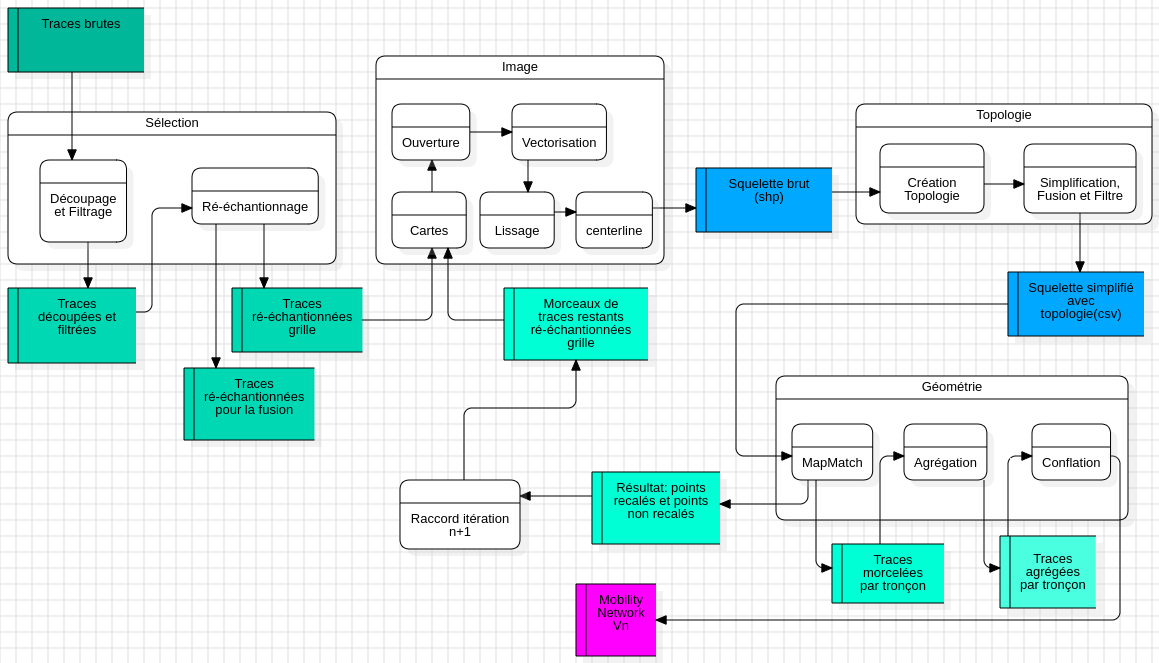
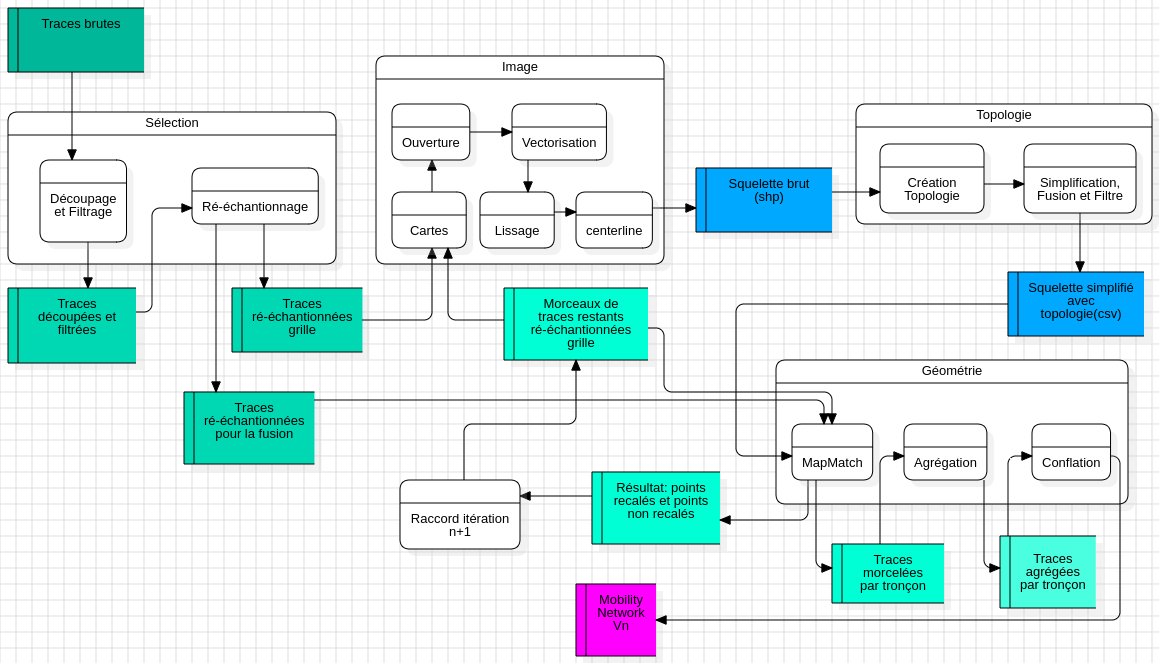
iteration 2

diff --git a/pipeline/source/Selection.py b/pipeline/source/Selection.py
@@ -195,8 +195,8 @@ def decoup_resample(RESPATH, tracespathsource, X, Y,
 
 
 
-def second_round(RESPATH, NB_OBS_MIN, G1_SIZE, G2_SIZE, SEUIL, SEUIL_SURFACE, DIST_MIN_ARC,
-                 RESAMPLE_SIZE_GRID):
+def second_round(RESPATH, NB_OBS_MIN = 10, DIST_MAX_2OBS = 50, RESAMPLE_SIZE_GRID = 1,
+                 rep='points_not_mm_1', pathtmm='tmm'):
 
     buffer_size = 5
     k = 0.6
@@ -210,7 +210,7 @@ def second_round(RESPATH, NB_OBS_MIN, G1_SIZE, G2_SIZE, SEUIL, SEUIL_SURFACE, DI
     #
 
     collection = tkl.TrackCollection()
-    mmtrackpath = RESPATH + '/mapmatch/tmm/'
+    mmtrackpath = RESPATH + '/mapmatch/' + pathtmm + '/'
     for mmfilename in os.listdir(mmtrackpath):
         #N;E;time;U;num;track_id;user_id;hmm_inference;mmtype;idedge
         fmt = tkl.TrackFormat({'ext': 'CSV',
@@ -224,7 +224,7 @@ def second_round(RESPATH, NB_OBS_MIN, G1_SIZE, G2_SIZE, SEUIL, SEUIL_SURFACE, DI
         collection.addTrack(trace)
     print ('Number of tracks map matched :', collection.size())
 
-    index =  tkl.SpatialIndex(collection)
+    # index =  tkl.SpatialIndex(collection)
 
     cpt = 1
     morceaux = tkl.TrackCollection()
@@ -244,6 +244,7 @@ def second_round(RESPATH, NB_OBS_MIN, G1_SIZE, G2_SIZE, SEUIL, SEUIL_SURFACE, DI
         morceau = tkl.Track()
         morceau.tid = cpt
         morceau.uid = cpt
+
         cpt += 1
         for j in range(track.size()):
             obs = track.getObs(j)
@@ -261,32 +262,66 @@ def second_round(RESPATH, NB_OBS_MIN, G1_SIZE, G2_SIZE, SEUIL, SEUIL_SURFACE, DI
             else:
                 if cptNot >= NB_OBS_MIN:
                     if OPT_PLUS_PTS:
-                        morceau = track.extract(j-NB_PTS, j) + morceau
-                        if j < track.size()-1:
-                            morceau = morceau + track.extract(j+1, min(j+NB_PTS, track.size()-1))
+                        # on ajoute 4 points avant
+                        o1 = track[j]
+                        for k in range(j-1, j-NB_PTS-1, -1):
+                            o2 = track[k]
+                            if o1.distance2DTo(o2) <= DIST_MAX_2OBS:
+                                morceau.insertObs(o2, k)
+                            o1 = o2
+                        # on ajoute 4 points après
+                        o1 = track[j]
+                        for k in range(j+1, min(j+NB_PTS+1, track.size())):
+                            o2 = track[k]
+                            if o1.distance2DTo(o2) <= DIST_MAX_2OBS:
+                                morceau.addObs(o2)
+                            o1 = o2
+
                     morceau.resample(RESAMPLE_SIZE_GRID, mode=tkl.MODE_SPATIAL)
+                    morceau.createAnalyticalFeature('num', num)
+                    morceau.createAnalyticalFeature('user_id', user_id)
+                    morceau.createAnalyticalFeature('track_id', track_id)
+                    morceau.createAnalyticalFeature('version', 'v1')
                     morceaux.addTrack(morceau)
 
                 morceau = tkl.Track()
                 morceau.tid = cpt
                 morceau.uid = cpt
+
                 cpt += 1
                 cptNot = 0
 
         if cptNot >= NB_OBS_MIN:
             if OPT_PLUS_PTS:
-                morceau = track.extract(j-NB_PTS, j) + morceau
-                if j < track.size()-1:
-                    morceau = morceau + track.extract(j+1, min(j+NB_PTS, track.size()-1))
+                # on ajoute 4 points avant
+                o1 = track[j]
+                for k in range(j-1, j-NB_PTS, -1):
+                    o2 = track[k]
+                    if o1.distance2DTo(o2) <= DIST_MAX_2OBS:
+                        morceau.insertObs(o2, k)
+                    o1 = o2
+                # on ajoute 4 points après
+                o1 = track[j]
+                for k in range(j+1, min(j+NB_PTS+1, track.size())):
+                    o2 = track[k]
+                    if o1.distance2DTo(o2) <= DIST_MAX_2OBS:
+                        morceau.addObs(o2)
+                    o1 = o2
             morceau.resample(RESAMPLE_SIZE_GRID, mode=tkl.MODE_SPATIAL)
+            morceau.createAnalyticalFeature('num', num)
+            morceau.createAnalyticalFeature('user_id', user_id)
+            morceau.createAnalyticalFeature('track_id', track_id)
+            morceau.createAnalyticalFeature('version', 'v1')
             morceaux.addTrack(morceau)
 
 
     # On enregistre
     # print (morceaux.size())
 
-    tracespath = RESPATH + "points_not_mm/"
+    af_names = ['num', 'track_id', 'user_id', 'version']
+
+    tracespath = RESPATH + rep + "/"
     tkl.TrackWriter.writeToFiles(morceaux, tracespath,
                                  id_E=1, id_N=0, id_U=3, id_T=2,
-                                 h=1, separator=";") # af_names=af_names
+                                 h=1, separator=";", af_names=af_names)
 

diff --git a/pipeline/MainZone1.py b/pipeline/MainZone1.py
@@ -8,7 +8,7 @@ from source.Image import density_polygonize
 from source.Topology import network
 from source.Geometry import createNetworkGeom
 
-STAGE = 5
+STAGE = 6
 
 
 """ ======================================================================= """
@@ -120,13 +120,29 @@ if not os.path.exists(RESPATH + 'resample_fusion'):
     os.makedirs(RESPATH + 'resample_fusion')
 if not os.path.exists(RESPATH + 'mapmatch/tmm'):
     os.makedirs(RESPATH + 'mapmatch/tmm')
+if not os.path.exists(RESPATH + 'mapmatch/tmm1'):
+    os.makedirs(RESPATH + 'mapmatch/tmm1')
+    if not os.path.exists(RESPATH + 'mapmatch/tmm2'):
+        os.makedirs(RESPATH + 'mapmatch/tmm2')
+
 if not os.path.exists(RESPATH + 'geometry/fusion'):
     os.makedirs(RESPATH + 'geometry/fusion')
+if not os.path.exists(RESPATH + 'geometry/fusion1'):
+    os.makedirs(RESPATH + 'geometry/fusion1')
+if not os.path.exists(RESPATH + 'geometry/fusion2'):
+    os.makedirs(RESPATH + 'geometry/fusion2')
+
 if not os.path.exists(RESPATH + 'geometry/raccord'):
     os.makedirs(RESPATH + 'geometry/raccord')
-if not os.path.exists(RESPATH + 'points_not_mm'):
-    os.makedirs(RESPATH + 'points_not_mm')
+if not os.path.exists(RESPATH + 'geometry/raccord1'):
+    os.makedirs(RESPATH + 'geometry/raccord1')
+if not os.path.exists(RESPATH + 'geometry/raccord2'):
+    os.makedirs(RESPATH + 'geometry/raccord2')
 
+if not os.path.exists(RESPATH + 'points_not_mm_1'):
+    os.makedirs(RESPATH + 'points_not_mm_1')
+if not os.path.exists(RESPATH + 'points_not_mm_2'):
+    os.makedirs(RESPATH + 'points_not_mm_2')
 
 
 
@@ -180,15 +196,21 @@ if STAGE == 4:
 if STAGE == 5:
     t0 = time.time()
 
-    SEUIL = 350
-    SEUIL_SURFACE = 750
+    rep='points_not_mm_1'
 
-    second_round(RESPATH, NB_OBS_MIN, G1_SIZE, G2_SIZE, SEUIL, SEUIL_SURFACE, DIST_MIN_ARC,
-                 RESAMPLE_SIZE_GRID)
+    SEUIL = 14
+    SEUIL_SURFACE = 500
+
+    second_round(RESPATH, NB_OBS_MIN, DIST_MAX_2OBS, RESAMPLE_SIZE_GRID, rep)
+
     density_polygonize(RESPATH, G1_SIZE, G2_SIZE, SEUIL, SEUIL_SURFACE,
-                       prefix='ST', rep='points_not_mm')
-    # network(RESPATH, DIST_MIN_ARC)
+                        prefix='ST', rep=rep)
 
+    network(RESPATH, DIST_MIN_ARC, prefix='ST')
+
+    createNetworkGeom(RESPATH, SEARCH, NB_OBS_MIN, DIST_MAX_2OBS, prefix='ST',
+                      pathtraces='points_not_mm_1', pathtmm='tmm1',
+                      pathfusion='fusion1', pathraccord='raccord1')
 
     t1 = time.time()
     total = t1-t0
@@ -196,7 +218,27 @@ if STAGE == 5:
 
 
 
+if STAGE == 6:
+    t0 = time.time()
 
+    SEUIL = 14
+    SEUIL_SURFACE = 500
+
+    second_round(RESPATH, NB_OBS_MIN, DIST_MAX_2OBS, RESAMPLE_SIZE_GRID,
+                 rep='points_not_mm_2', pathtmm='tmm1')
+
+    density_polygonize(RESPATH, G1_SIZE, G2_SIZE, SEUIL, SEUIL_SURFACE,
+                        prefix='TT', rep='points_not_mm_2')
+
+    #network(RESPATH, DIST_MIN_ARC, prefix='TT')
+    #
+    #createNetworkGeom(RESPATH, SEARCH, NB_OBS_MIN, DIST_MAX_2OBS, prefix='ST',
+    #                  pathtraces='points_not_mm_2', pathtmm='tmm2',
+    #                  pathfusion='fusion2', pathraccord='raccord2')
+
+    t1 = time.time()
+    total = t1-t0
+    print ("Temps d'exécution en s:", total)
 
 
 

diff --git a/pipeline/source/Geometry.py b/pipeline/source/Geometry.py
@@ -17,7 +17,9 @@ from pipeline import conflateOnNetwork
 
 
 
-def createNetworkGeom (RESPATH, SEARCH, NB_OBS_MIN, DIST_MAX_2OBS, prefix='PT'):
+def createNetworkGeom (RESPATH, SEARCH, NB_OBS_MIN, DIST_MAX_2OBS, prefix='PT',
+                       pathtraces='resample_fusion', pathtmm='tmm', pathfusion='fusion',
+                       pathraccord='raccord'):
 
     main_text   = "--------------------------------------------------------------------------------------\r\n"
     main_text  += " ETAPE 4 :                                                               \r\n"
@@ -62,7 +64,7 @@ def createNetworkGeom (RESPATH, SEARCH, NB_OBS_MIN, DIST_MAX_2OBS, prefix='PT'):
                            'header': 0,
                            'cmt': '#',
                            'read_all': True})
-    tracespath = RESPATH + '/resample_fusion/'
+    tracespath = RESPATH + '/' + pathtraces + '/'
     collection2 = tkl.TrackReader.readFromFile(tracespath, fmt)
     print ('    Number of tracks:', collection2.size())
 
@@ -180,7 +182,7 @@ def createNetworkGeom (RESPATH, SEARCH, NB_OBS_MIN, DIST_MAX_2OBS, prefix='PT'):
 
 
     af_names = ['num', 'track_id', 'user_id', 'hmm_inference', 'mmtype', 'idedge']
-    mmtracespath = RESPATH + 'mapmatch/tmm/'
+    mmtracespath = RESPATH + 'mapmatch/' + pathtmm + '/'
     tkl.TrackWriter.writeToFiles(collection, mmtracespath,
                                  id_E=1, id_N=0, id_U=3, id_T=2,
                                  h=1, separator=";", af_names=af_names)
@@ -280,7 +282,8 @@ def createNetworkGeom (RESPATH, SEARCH, NB_OBS_MIN, DIST_MAX_2OBS, prefix='PT'):
 
     print ("Starting aggregation ...")
 
-    geompath = RESPATH + 'geometry/fusion/'
+    geompath = RESPATH + 'geometry/' + pathfusion + '/'
+    
 
     # Aggregation with DTW distance
     fusions = tkl.TrackCollection()
@@ -361,10 +364,11 @@ def createNetworkGeom (RESPATH, SEARCH, NB_OBS_MIN, DIST_MAX_2OBS, prefix='PT'):
     # =========================================================================
     # Raccord
 
+
     conflated = conflateOnNetwork(fusions, network, threshold=50, h=30)
 
     # enregistrer conflation
-    raccordpath = RESPATH + 'geometry/raccord/'
+    raccordpath = RESPATH + 'geometry/' + pathraccord + '/'
     for segment in conflated:
         if segment is not None:
             # Sauvegarde

diff --git a/pipeline/source/Image.py b/pipeline/source/Image.py
@@ -51,7 +51,7 @@ def density_polygonize(RESPATH, G1_SIZE, G2_SIZE, SEUIL, SEUIL_SURFACE, prefix='
                            'header': 1,
                            'read_all': True})
     
-    resampledtracespath = RESPATH + 'resample_grid/'
+    resampledtracespath = RESPATH + rep + '/'
     collection = tkl.TrackReader.readFromFile(resampledtracespath, fmt)
     for trace in collection:
         trace.uid = trace.getObsAnalyticalFeature('user_id', 0)

diff --git a/pipeline/source/Topology.py b/pipeline/source/Topology.py
@@ -97,7 +97,7 @@ def network(RESPATH, DIST_MIN_ARC, prefix='PT'):
         cpt += 1
     filtreNoeudSimple(network)
 
-
+    '''
     cpt = 0
     nb = 1000
     while nb > 10 and cpt < 10:
@@ -105,7 +105,7 @@ def network(RESPATH, DIST_MIN_ARC, prefix='PT'):
         print ('    nb arcs supprimés: ', nb)
         cpt += 1
     filtreNoeudSimple(network)
-
+    '''
 
     print ('Fin suppression des petis arcs 4/4.')
 

diff --git a/README.md b/README.md
@@ -15,7 +15,7 @@ The outdoor footprint network is defined by :
     <br/><label>Raw GNSS trajectories</label>
   </td>
   <td style="padding:16px;">
-    <img width="200px" src="https://github.com/IntForOut/HikersFootprint/blob/main/img/output.png" />
+    <img width="200px" src="https://github.com/IntForOut/HikersFootprint/blob/main/img/IT2.png" />
     <br/><label>Outdoor Footprint Network</label>
   </td>
 </tr></table>
@@ -62,7 +62,7 @@ Le pipeline est composé de 5 briques à exécuter une par une:
 
 Les scripts se lancent dans une console Python. 
 
-Temps d'exécution approximatif: xxx min (500+155+50+300+)
+Temps d'exécution approximatif: xxx min (500+155+50+300+355)
 
 
 <p align="center">
